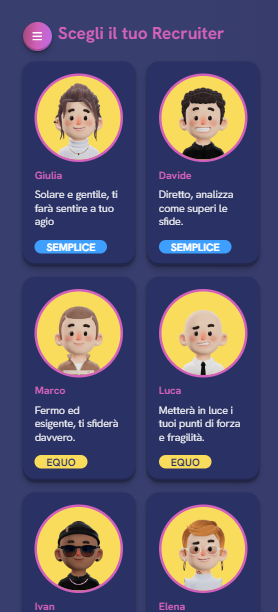
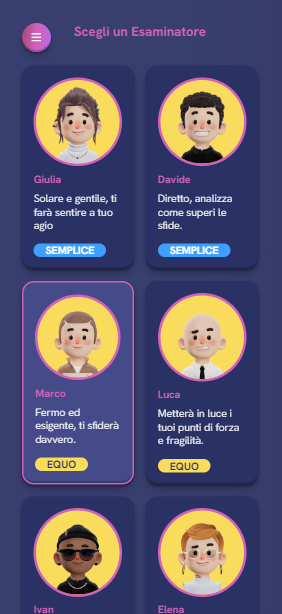
fix: minor fixes on ChooseInterviewer and docs images

diff --git a/src/components/Organism/ChooseInterviewer/ChooseInterviewer.tsx b/src/components/Organism/ChooseInterviewer/ChooseInterviewer.tsx
@@ -8,46 +8,54 @@ import { ChooseInterviewerProps } from "@/interfaces/interfaces";
 import { profiles } from "@/constants/interviewersProfiles";
 
 const ChooseInterviewer: React.FC<ChooseInterviewerProps> = ({ onInterviewerSelect }) => {
-	const [selectedInterviewer, setSelectedInterviewer] = useState<(typeof profiles)[0] | null>(null);
+  const [selectedInterviewer, setSelectedInterviewer] = useState<(typeof profiles)[0] | null>(null);
 
-	const handleSubmit = (e: FormEvent) => {
-		e.preventDefault();
-		if (selectedInterviewer) {
-			onInterviewerSelect(selectedInterviewer);
-		}
-	};
+  const handleSubmit = (e: FormEvent) => {
+    e.preventDefault();
+    if (selectedInterviewer) {
+      onInterviewerSelect(selectedInterviewer);
+    }
+  };
 
-	return (
-		<main className={style.main}>
-			<div className={style.container}>
-				<header className={style.header}>
-					<h2 className={style.sectionTitle}>Scegli il tuo Recruiter</h2>
-				</header>
+  return (
+    <main className={style.main}>
+      <div className={style.container}>
+        <header className={style.header}>
+          <h2 className={style.sectionTitle}>Scegli un Esaminatore</h2>
+        </header>
 
-				<div>
-					<form onSubmit={handleSubmit} className={style.interviewerForm}>
-						<div className={style.avatarGrid}>
-							{profiles.map((profile) => (
-								<label key={profile.value} className={`${selectedInterviewer?.value === profile.value ? `${style.label} ${style.selected}` : style.label}`} htmlFor={profile.value}>
-									<div>
-										<div className={style.avatar}>
-											<Image className={style.avatarImg} src={profile.avatarSrc} alt={`Avatar ${profile.name}`} width={1000} height={1000} priority />
-										</div>
-										<h3 className={style.avatarName}>{profile.name}</h3>
-										<p className={style.avatarBio}>{profile.shortBio}</p>
-									</div>
-									<InterviewerBadge label={profile.level} className={profile.className} />
-									<input type='radio' name='interviewer' id={profile.value} value={profile.value} onChange={() => setSelectedInterviewer(profile)} required={false} className={style.radio} />
-								</label>
-							))}
-						</div>
+        <div>
+          <form onSubmit={handleSubmit} className={style.interviewerForm}>
+            <div className={style.avatarGrid}>
+              {profiles.map((profile) => (
+                <label key={profile.value} className={`${selectedInterviewer?.value === profile.value ? `${style.label} ${style.selected}` : style.label}`} htmlFor={profile.value}>
+                  <div>
+                    <div className={style.avatar}>
+                      <Image className={style.avatarImg} src={profile.avatarSrc} alt={`Avatar ${profile.name}`} width={1000} height={1000} priority />
+                    </div>
+                    <h3 className={style.avatarName}>{profile.name}</h3>
+                    <p className={style.avatarBio}>{profile.shortBio}</p>
+                  </div>
+                  <InterviewerBadge label={profile.level} className={profile.className} />
+                  <input
+                    type="radio"
+                    name="interviewer"
+                    id={profile.value}
+                    value={profile.value}
+                    onChange={() => setSelectedInterviewer(profile)}
+                    required={false}
+                    className={style.radio}
+                  />
+                </label>
+              ))}
+            </div>
 
-						<CtaButton label='Cominciamo!' className='ctaA' type='submit' disabled={selectedInterviewer == null} />
-					</form>
-				</div>
-			</div>
-		</main>
-	);
+            <CtaButton label="Cominciamo!" className="ctaA" type="submit" disabled={selectedInterviewer == null} />
+          </form>
+        </div>
+      </div>
+    </main>
+  );
 };
 
 export default ChooseInterviewer;

diff --git a/src/components/Organism/ChooseInterviewer/ChooseInterviewer.module.scss b/src/components/Organism/ChooseInterviewer/ChooseInterviewer.module.scss
@@ -22,6 +22,11 @@
 
     .header {
       @include header;
+
+      .sectionTitle {
+        font-size: var(--fs-lg);
+        padding-bottom: 12px;
+      }
     }
 
     .interviewerForm {
